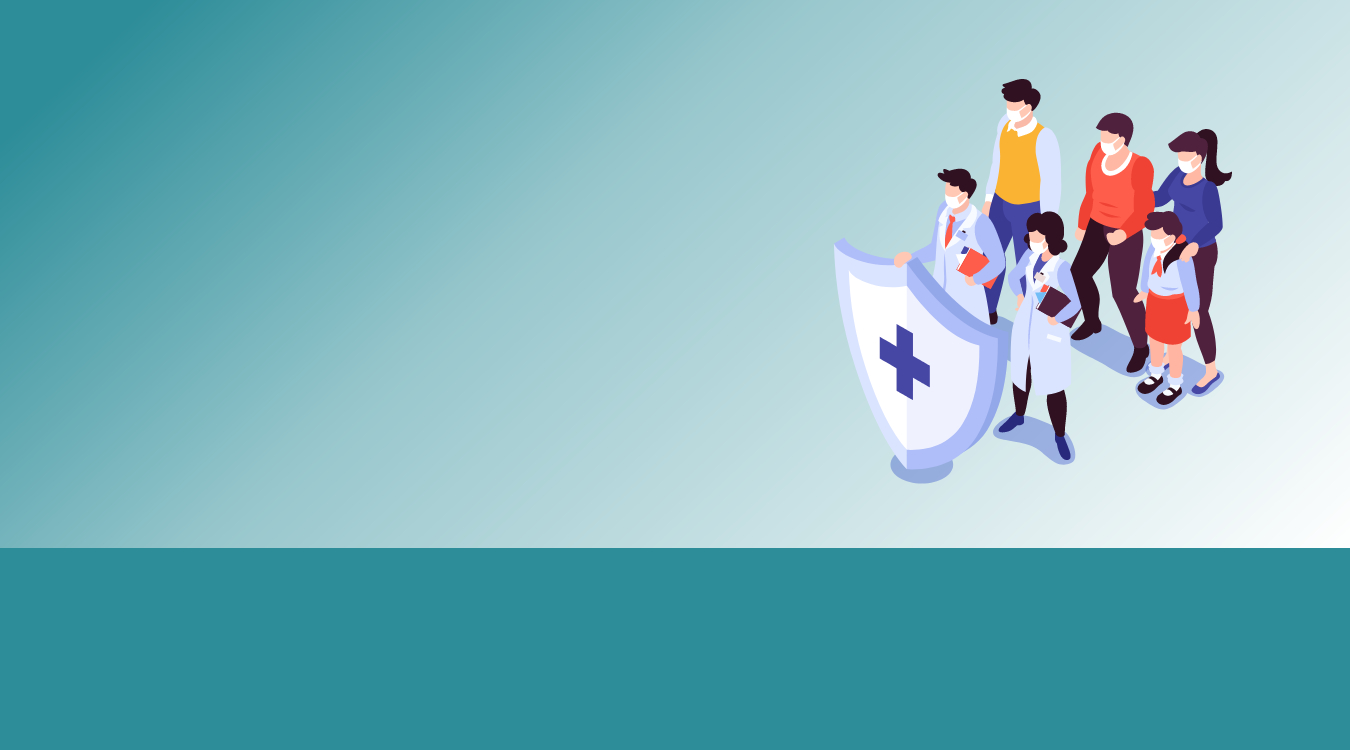
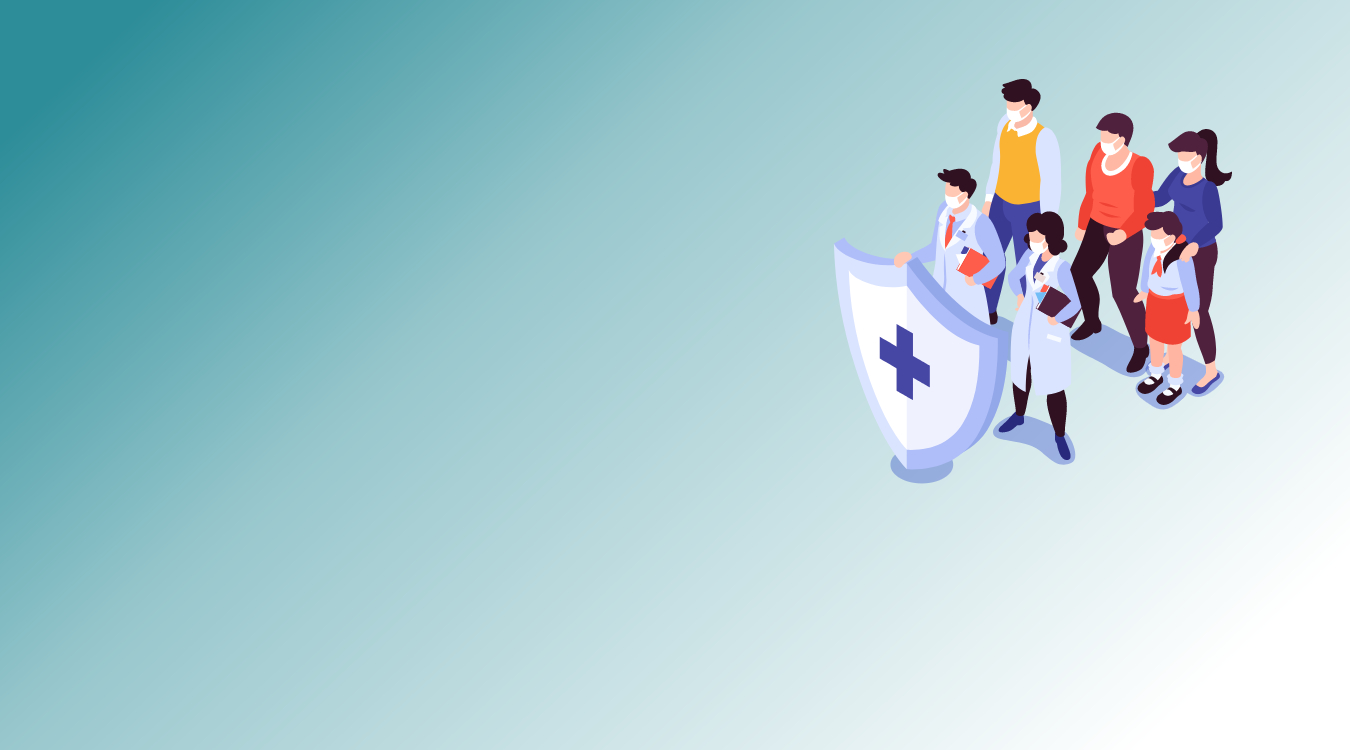
hotfix(landing-page):Fix unresponsive backgrounds

Changed region(s): [[0.0, 0.7053, 1.0, 1.0]]

diff --git a/public/assets/css/style.css b/public/assets/css/style.css
@@ -503,7 +503,7 @@ a:focus {
 .about {
   position: relative;
   overflow: hidden;
-  background-size: cover;
+  background-size: cover !important;
 }
 .about-ar-EG {
   background: url("../images/bg/doctors-left.jpg") no-repeat;
@@ -515,9 +515,8 @@ a:focus {
 .banner {
   position: relative;
   overflow: hidden;
-  background: #fff;
-  background-size: cover;
   min-height: 550px;
+  background-size: cover !important;
 }
 
 .banner-en-US {
@@ -1562,11 +1561,10 @@ a:focus {
 .suggested-articles-section {
   position: relative;
   overflow: hidden;
-  background: #fff;
-  background-size: contain;
   min-height: 450px;
-  background: url("../images/bg/articles-bg.jpg") no-repeat;
   padding-bottom: 0;
+  background-size: cover !important;
+  background-color: white;
 }
 
 .suggested-articles {

diff --git a/src/pages/LandingPage.jsx b/src/pages/LandingPage.jsx
@@ -25,7 +25,7 @@ const LandingPage = (props) => {
       <div>
         {/* <!-- Slider Start --> */}
         <section className={`banner banner-${t("language")}`}>
-          <div className="container">
+          <div className="container-fluid">
             <div className="row">
               <div className="col-lg-6 col-md-12 col-xl-7">
                 <div className="block">
